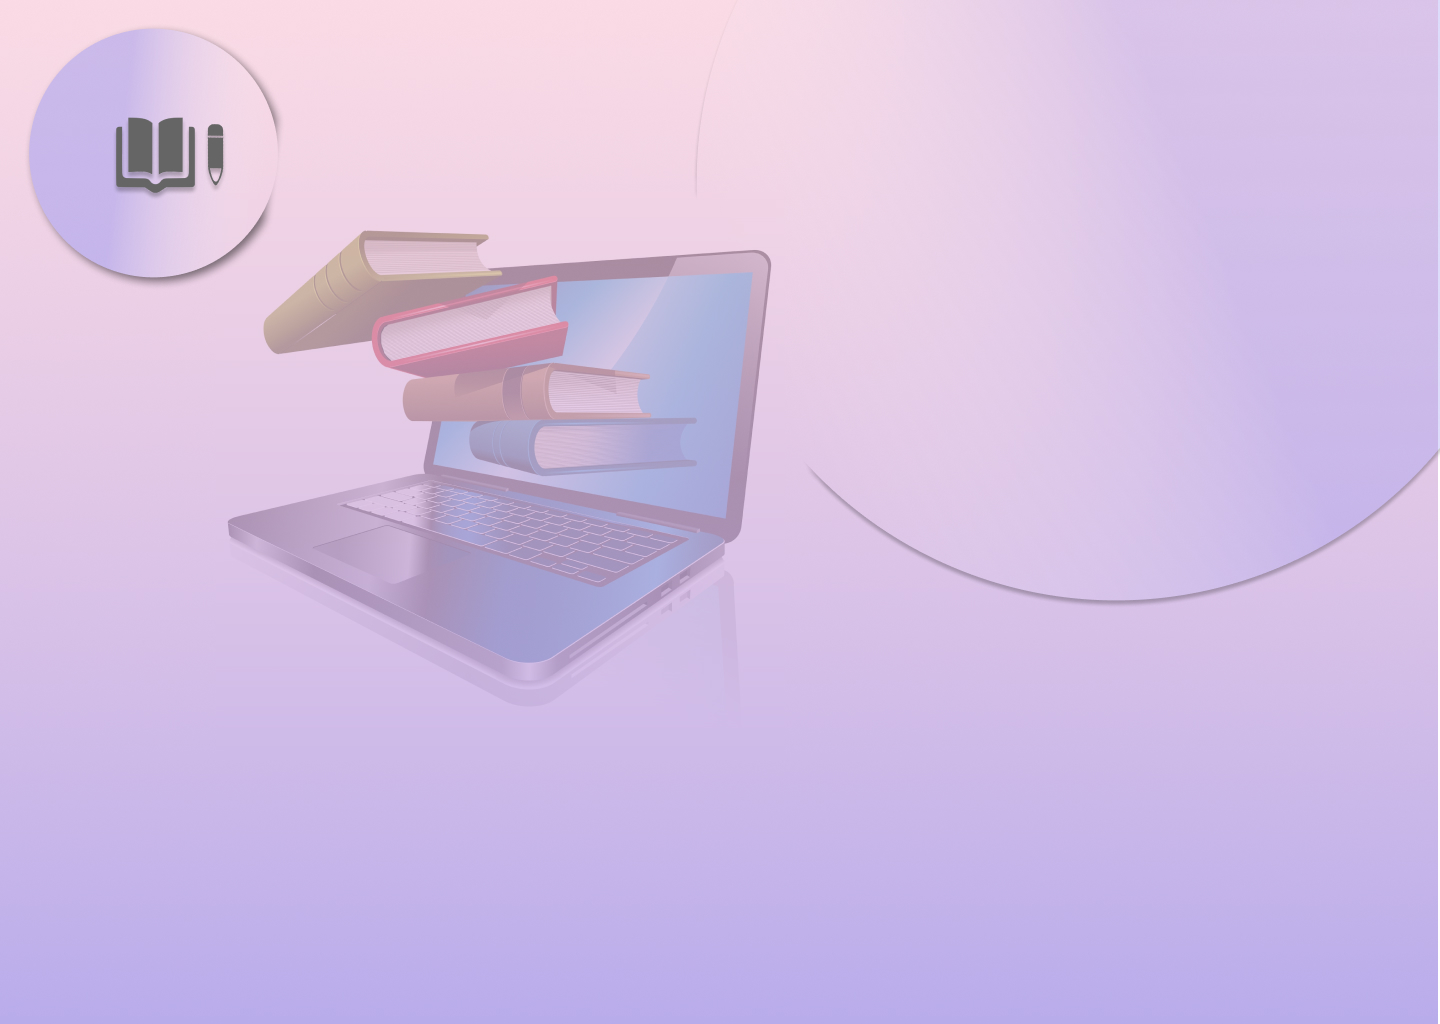
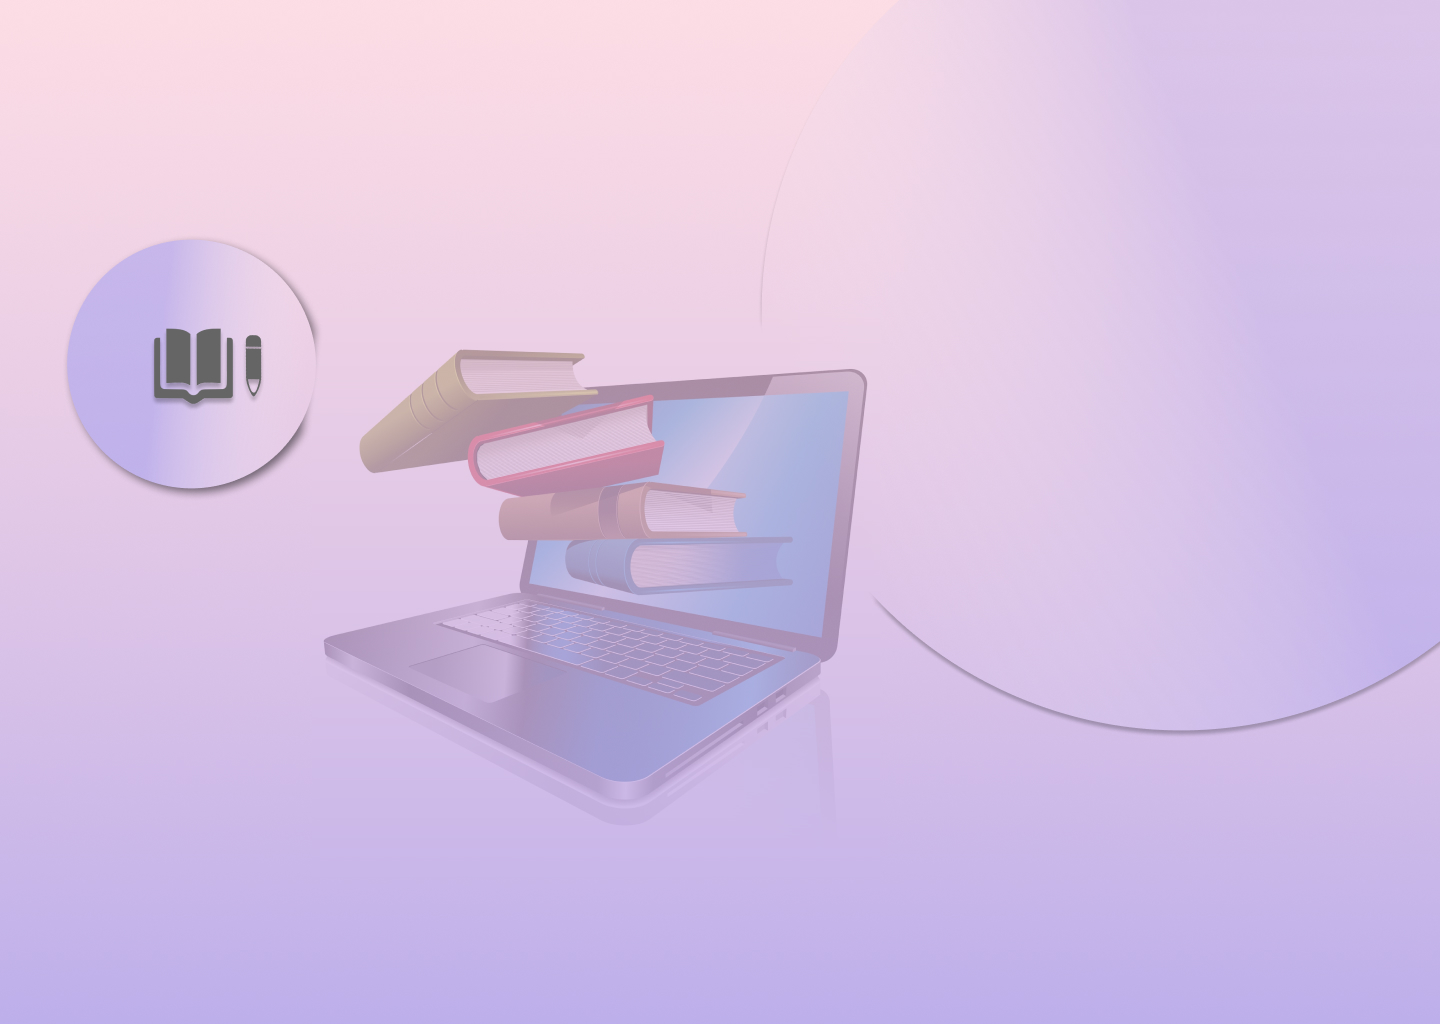
making background responsive

diff --git a/css/Register.css b/css/Register.css
@@ -1,5 +1,11 @@
 body {
+  margin: 0;
+  padding: 0;
   background: url(../img/Background.jpg);
+  background-size: cover;
+  background-repeat: no-repeat;
+  background-attachment: fixed;
+  background-position: center;
 }
 
 
